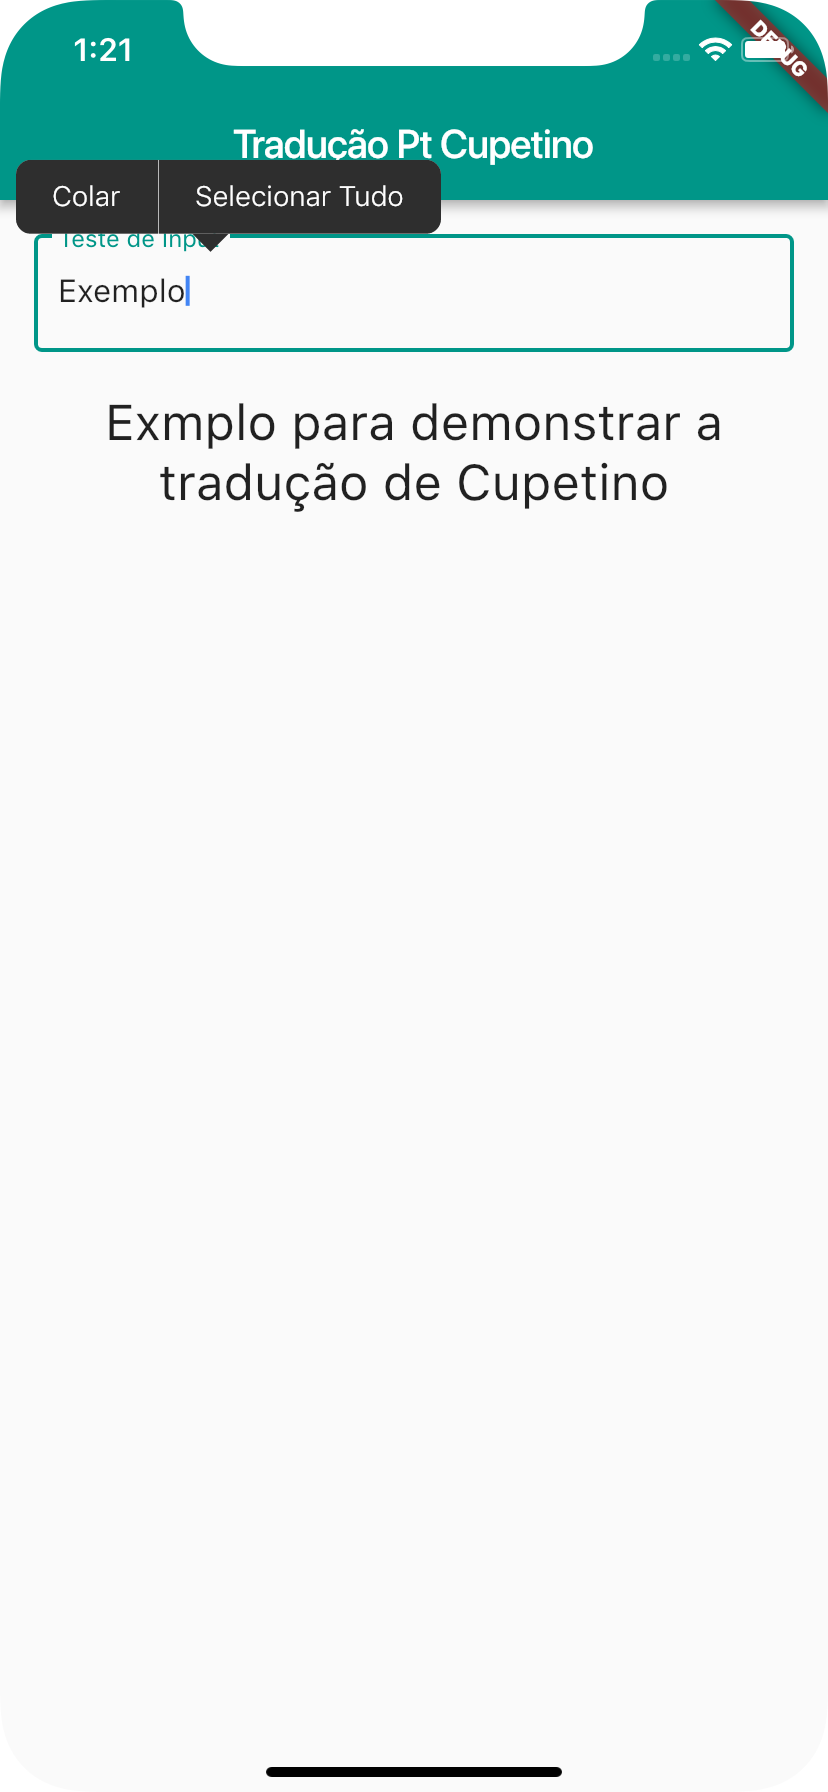
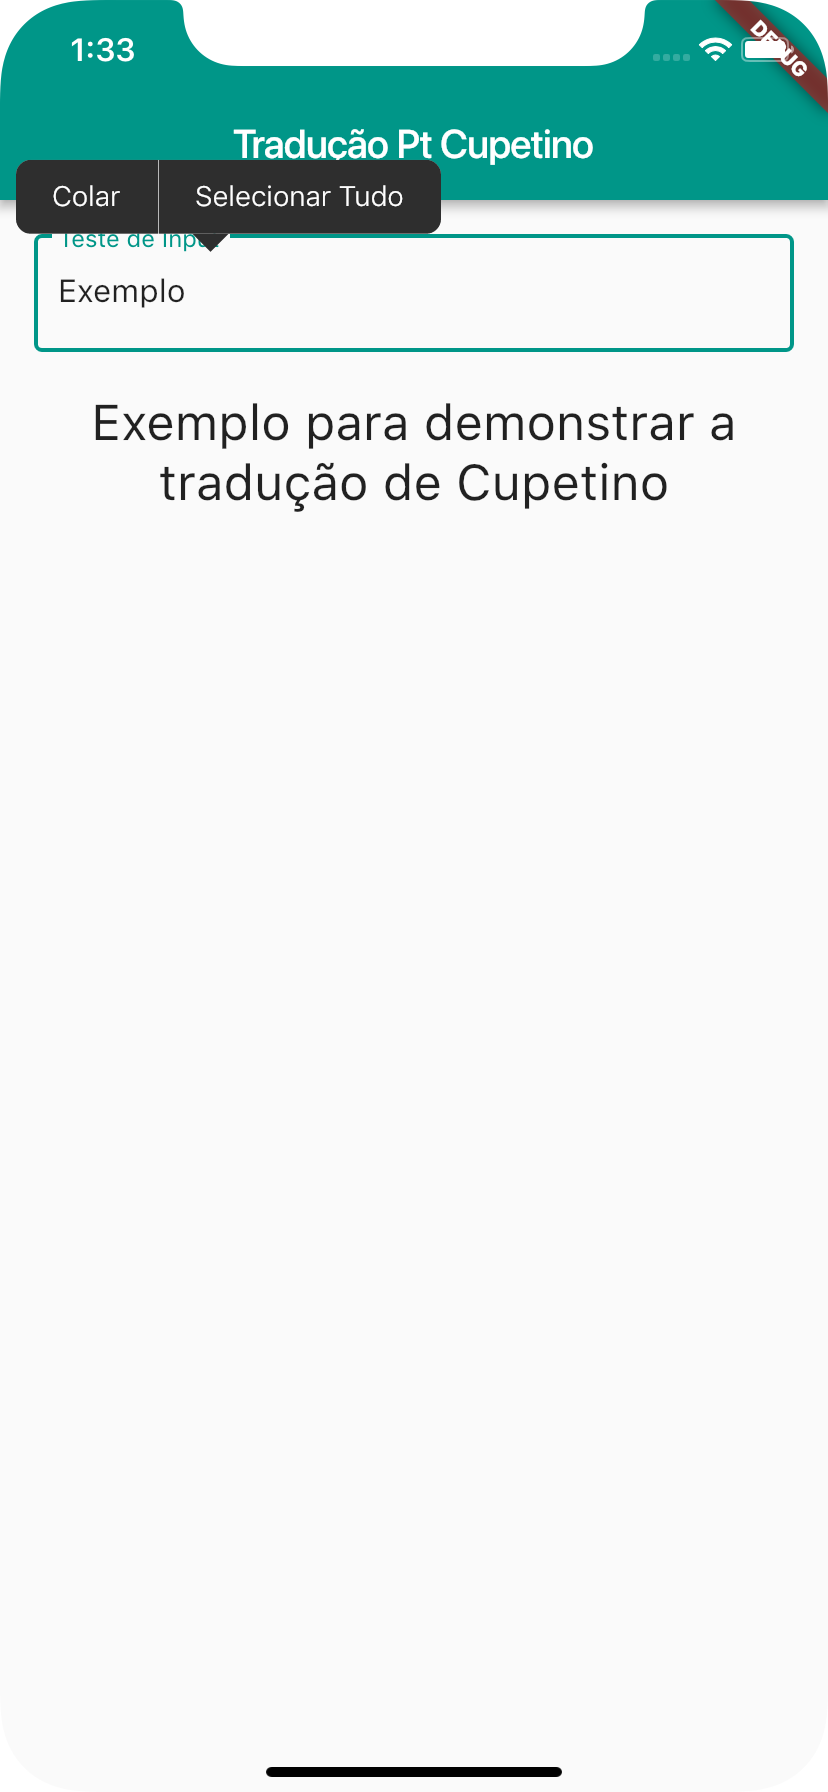
Alterações de imagem

Changed region(s): [[0.0906, 0.2188, 0.9058, 0.25], [0.0906, 0.0, 0.151, 0.0312]]

diff --git a/lib/main.dart b/lib/main.dart
@@ -57,7 +57,7 @@ class _MyHomePageState extends State<MyHomePage> {
               ),
             ),
             SizedBox(height: 20.0,),
-            Text("Exmplo para demonstrar a tradução de Cupetino",
+            Text("Exemplo para demonstrar a tradução de Cupetino",
               textAlign: TextAlign.center,
               style: TextStyle(
                 fontSize: 25.0,
